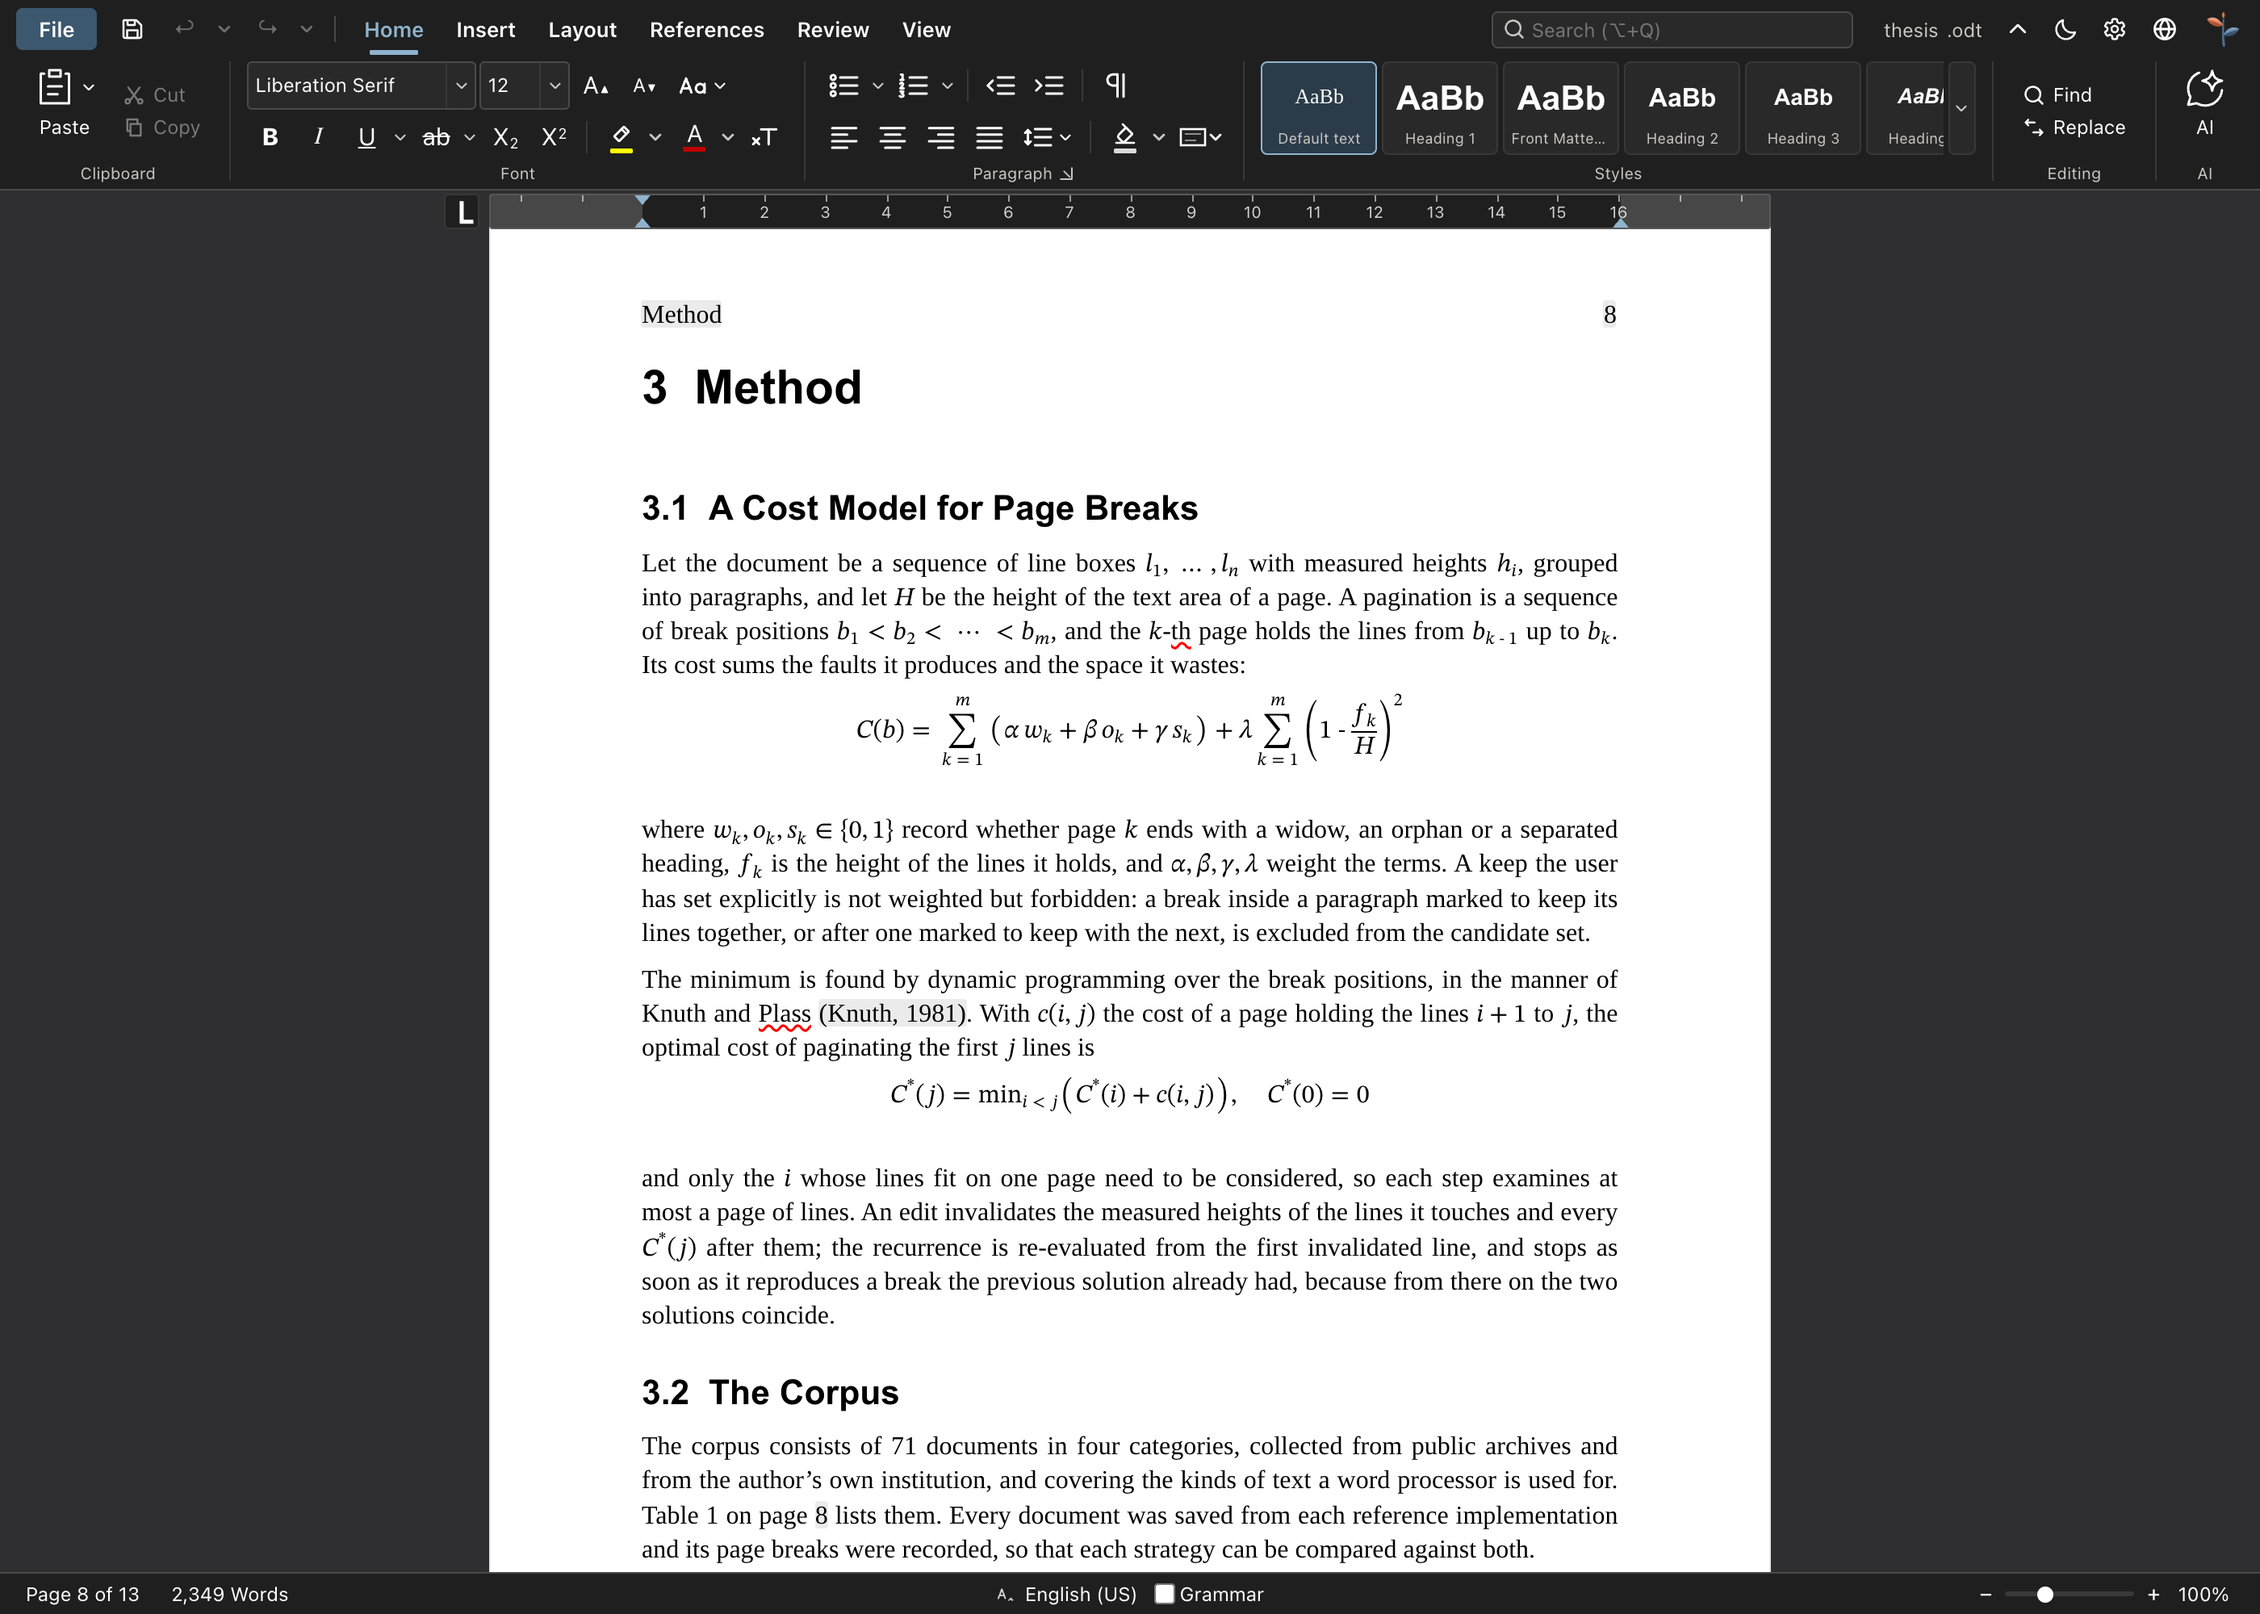
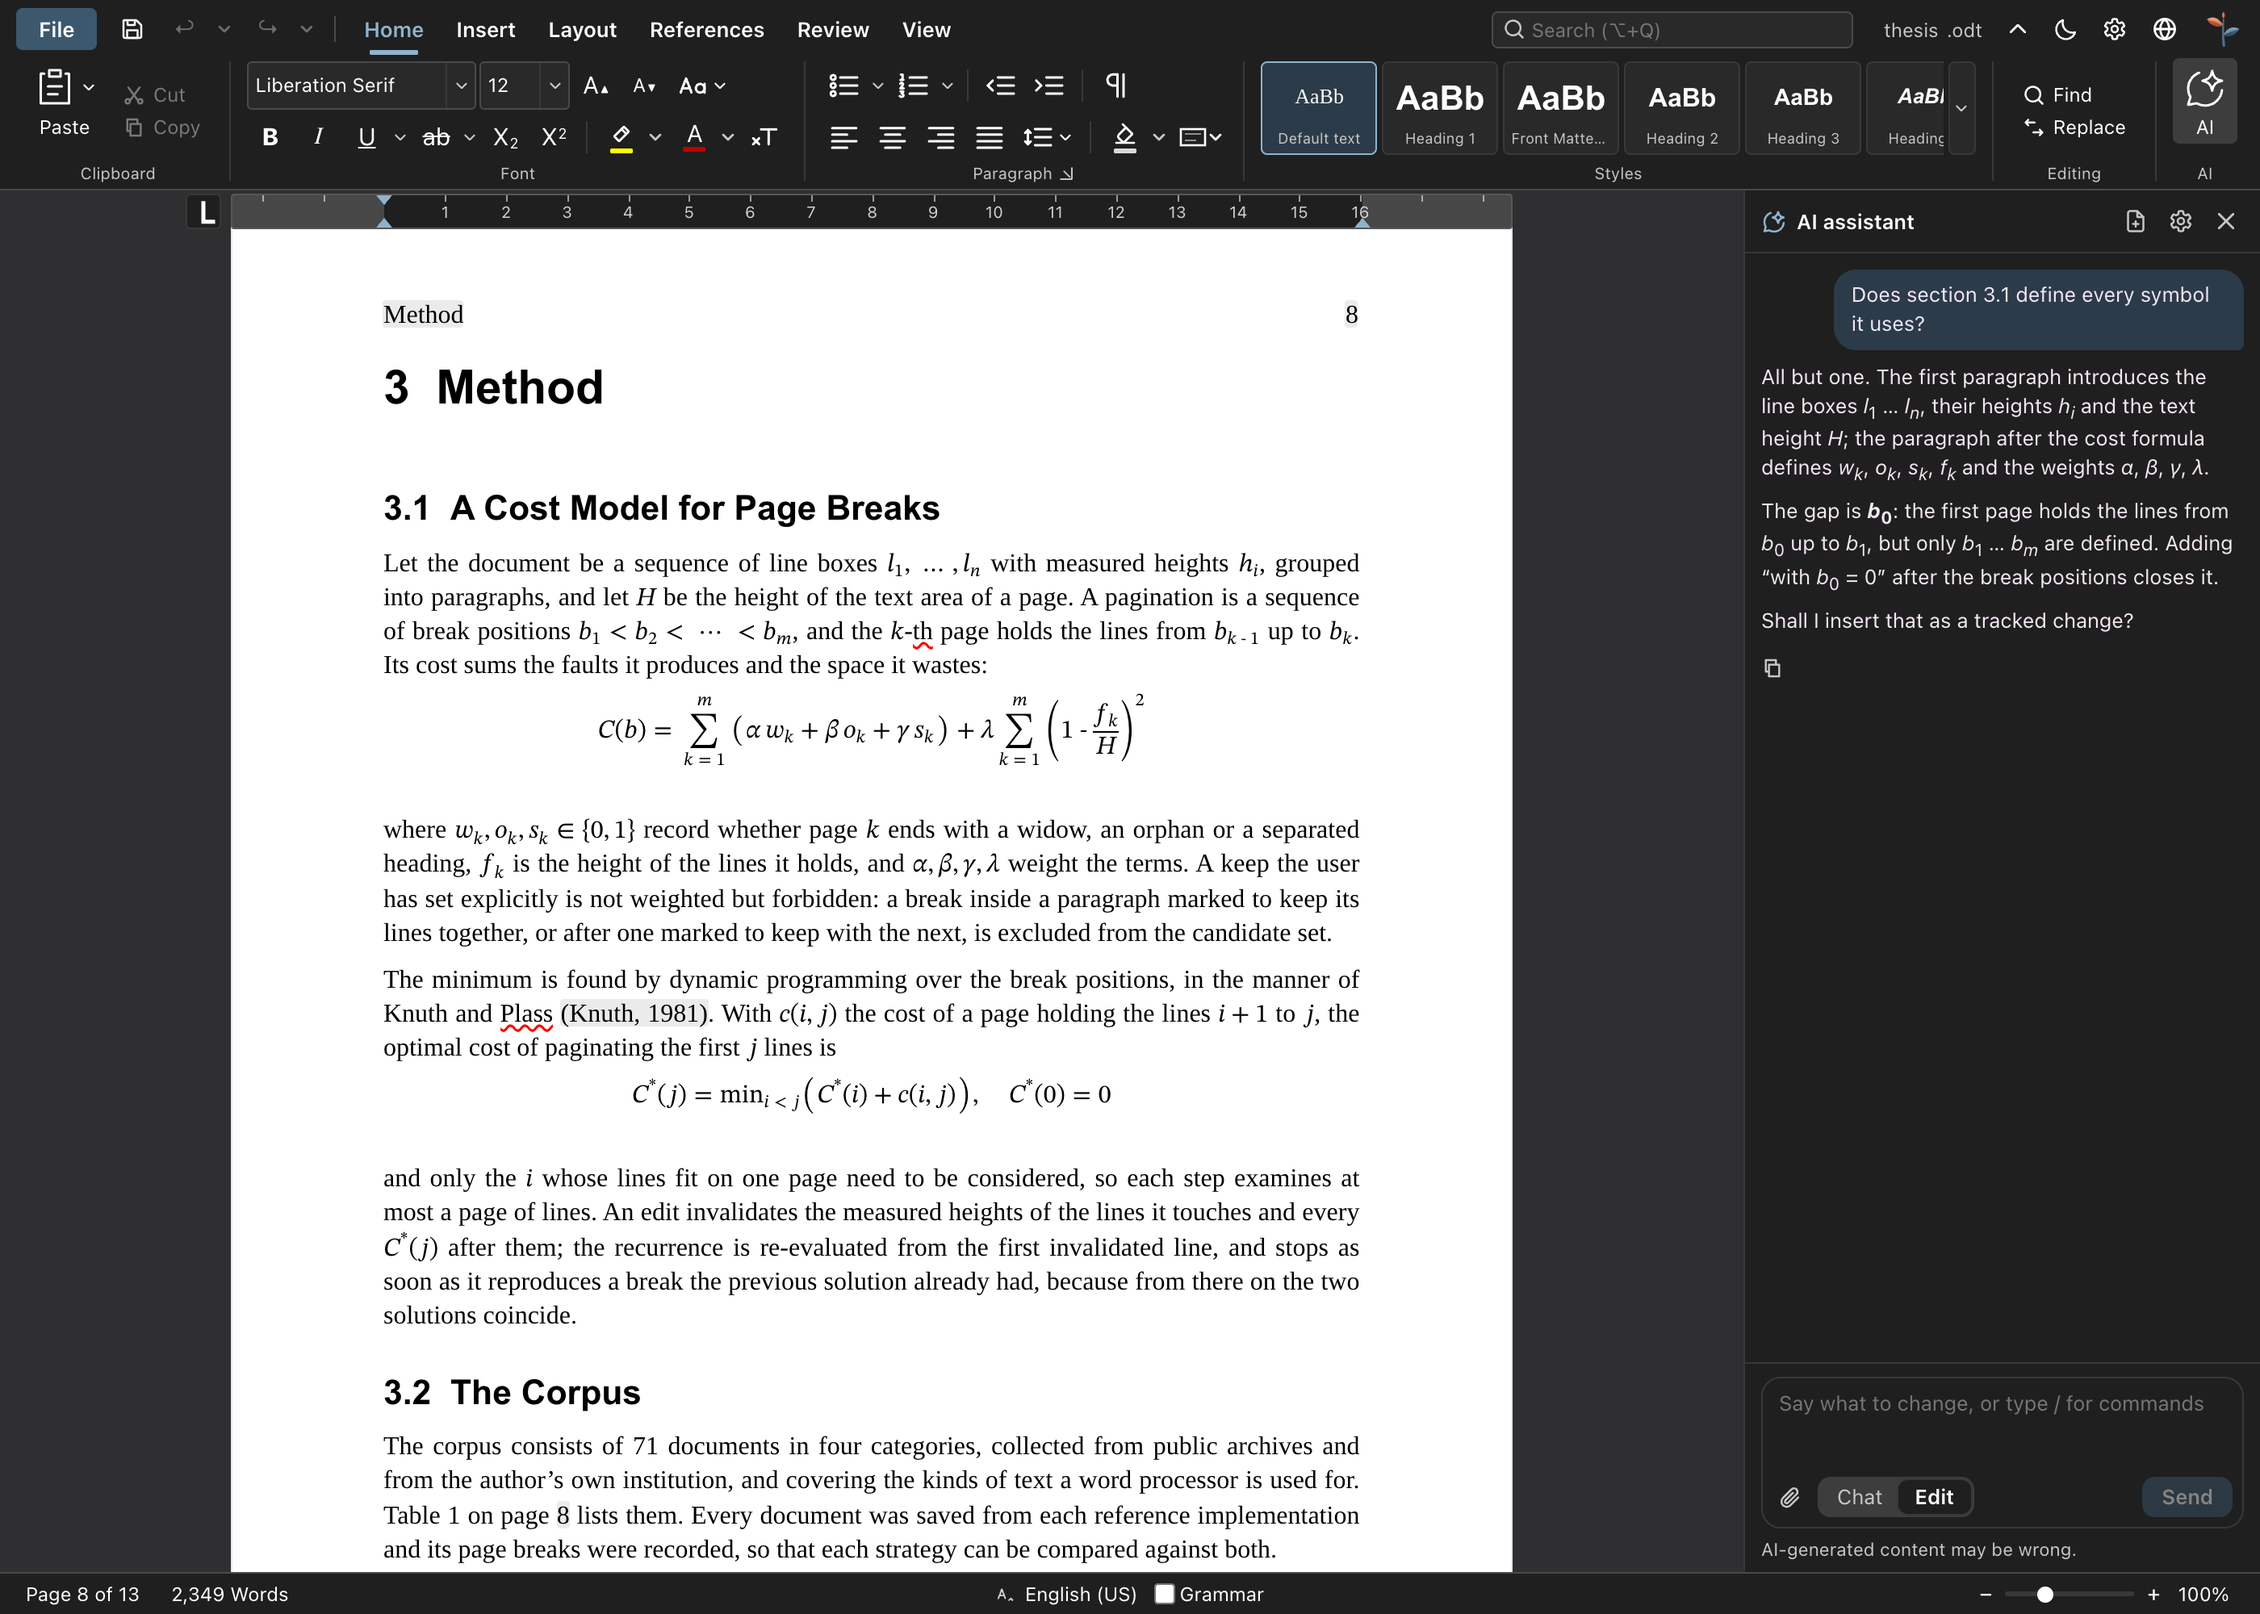
docs: the thesis shots show the AI pane with a conversation
- a shot's ai option stores a question and answer as the chat and opens the pane

Changed region(s): [[0.0932, 0.124, 0.9943, 0.992], [0.9632, 0.031, 0.9943, 0.093], [0.5593, 0.434, 0.6214, 0.465]]

diff --git a/scripts/showcase/thesis.ts b/scripts/showcase/thesis.ts
@@ -19,6 +19,18 @@ const CHART = svgDataUrl(`<svg xmlns="http://www.w3.org/2000/svg" width="560" he
 </svg>`);
 
 const AUTHOR = 'Nora Weiland';
+
+const AI_EXCHANGE = {
+  question: 'Does section 3.1 define every symbol it uses?',
+  answer: '<p>All but one. The first paragraph introduces the line boxes <em>l</em><sub>1</sub> … <em>l</em><sub><em>n</em></sub>, '
+    + 'their heights <em>h</em><sub><em>i</em></sub> and the text height <em>H</em>; the paragraph after the cost formula defines '
+    + '<em>w</em><sub><em>k</em></sub>, <em>o</em><sub><em>k</em></sub>, <em>s</em><sub><em>k</em></sub>, <em>f</em><sub><em>k</em></sub> '
+    + 'and the weights <em>α</em>, <em>β</em>, <em>γ</em>, <em>λ</em>.</p>'
+    + '<p>The gap is <strong><em>b</em><sub>0</sub></strong>: the first page holds the lines from <em>b</em><sub>0</sub> up to '
+    + '<em>b</em><sub>1</sub>, but only <em>b</em><sub>1</sub> … <em>b</em><sub><em>m</em></sub> are defined. Adding '
+    + '“with <em>b</em><sub>0</sub> = 0” after the break positions closes it.</p>'
+    + '<p>Shall I insert that as a tracked change?</p>',
+};
 const REVIEWER = 'Prof. Halvorsen';
 const BOOKMARK = (name: string) => ({ type: 'bookmark', attrs: { name } });
 const REF = (name: string, format: 'text' | 'page', text: string): N =>
@@ -188,8 +200,8 @@ export function build(review = false): Showcase {
     shots: review
       ? [{ file: 'thesis-review', at: 'Introduction', markup: true, tab: 'review' }]
       : [
-        { file: 'thesis', at: 'Method' },
-        { file: 'thesis-dark', at: 'Method', theme: 'dark' },
+        { file: 'thesis', at: 'Method', ai: AI_EXCHANGE },
+        { file: 'thesis-dark', at: 'Method', theme: 'dark', ai: AI_EXCHANGE },
         { file: 'thesis-contents', at: 'Contents', tab: 'references' },
         { file: 'thesis-overview', page: 1, zoom: 50, columns: 2, tab: 'view' },
       ],

diff --git a/scripts/showcase/lib.ts b/scripts/showcase/lib.ts
@@ -95,6 +95,8 @@ export type Shot = {
   columns?: number; markup?: boolean; spelling?: boolean;
   /** The ribbon tab to open, and where to put the caret (first match in view). */
   tab?: string; caret?: string;
+  /** A question and the assistant's HTML answer, shown in the open AI pane. */
+  ai?: { question: string; answer: string };
 };
 
 export type Showcase = {
